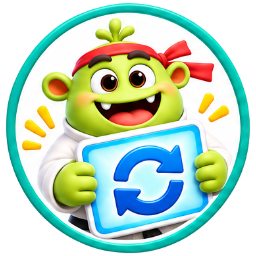
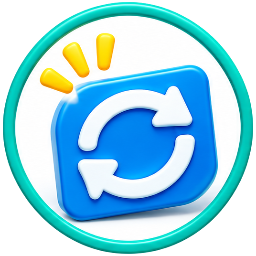
計算挑戰：四年級跳題＋道具圖示整組重畫（不同輪廓、框色）

diff --git a/calc/calc.js b/calc/calc.js
@@ -1,6 +1,7 @@
 /* ============================================================
    🧮 樹洞「計算挑戰」（三、四年級，2026-11-03 SUNNY 的點子）
    每天 5 題，紙上算、網頁打答案；第一次按「完成」就對才算「連續答對」
+   2026-11-10 ⏭跳題（只開放四年級）：連續 10／30／60 題起每天可跳 1／2／3 題；最近答錯過的運算不能跳（規則由後台算）
    2026-11-07 道具：🔁重做卡（蓋 3 章送 1）、🛡免歸零卡（連續 20 題送 1）、💾存檔點（50/100/150）、⭐累積答對稱號（規則都由後台算）
    第一次錯：紅格子＋一句提示（進位照 SUNNY「記在手上」，不畫小小進位數字）；第二次錯：一步一步動畫教
    當天 5 題全對：獎勵動畫＋蓋一個浩克章；連續答對 200 題：計算王獎狀（請找 SUNNY 領取獎品，一人最多 2 張）
@@ -34,16 +35,44 @@ const RULES = [
   "🛡 <b>免歸零卡</b>：每連續答對 20 題送 1 張。答錯（或重做也錯）時自動用掉一張，連續題數保住。",
   "💾 <b>存檔點</b>：連續到 50、100、150 題會存檔。兩種卡都用完時答錯，只退回存檔點，不會回到 0。",
   "⭐ <b>累積答對</b>：答對的題數一直加、不會歸零；到 50、100、200 題升級稱號。兩種卡最多各存 3 張。",
+  ...(GRADE === 4 ? ["⏭ <b>跳題</b>：連續答對 10 題起，每天可以跳過 1 題；30 題起 2 題、60 題起 3 題。跳過的題目連續不加也不斷。<b>最近算錯過的那種題目不能跳</b>，要多練習喔！"] : []),
   "連續答對 <b>200 題</b> → 得到「計算王獎狀」，請找 SUNNY 領取獎品。",
   "拿到獎狀後，連續題數從 0 重新開始；<b>每個人最多領 2 次獎品</b>。",
   "哪一天沒做，連續題數不會變。",
   "要打自己的本名；換手機、換平板，紀錄都接得上。",
 ];
 const STAMPS = 12;   // 浩克章 stamp_1.png ~ stamp_12.png（阿居畫），照順序輪流蓋
-// 道具圖示（阿居畫，2026-11-07；原圖 img\_原圖_items_阿居.png，cut_items.cjs 切）：文字裡的 🔁🛡💾⭐ 一律換成圖
-const ICO = { "🔁": "redo", "🛡": "shield", "💾": "save", "⭐": "total" };
-const ico = s => String(s).replace(/🔁|🛡\uFE0F?|💾|⭐/g, m => `<img class="cii" src="${IMG}item_${ICO[m.replace(/\uFE0F/g, "")]}.png" alt="">`);
+// 道具圖示（阿居畫；2026-11-10 SUNNY 嫌沒辨識度→整組重畫成不同輪廓：img\_原圖_items2_阿居.png、_原圖_skip_阿居.png，cut_items.cjs 切）：文字裡的 🔁🛡💾⭐⏭ 一律換成圖
+const ICO = { "🔁": "redo", "🛡": "shield", "💾": "save", "⭐": "total", "⏭": "skip" };
+const ico = s => String(s).replace(/🔁|🛡\uFE0F?|💾|⭐|⏭?/g, m => `<img class="cii" src="${IMG}item_${ICO[m.replace(/\uFE0F/g, "")]}.png" alt="">`);
 
+// ⏭ 跳題（四年級）：能不能跳第 idx 題（後台會再檢查一次）
+const OPN = { add: "加法", sub: "減法", mul: "乘法", div: "除法" };
+const opOf = p => /÷/.test(p.text) ? "div" : /×/.test(p.text) ? "mul" : /－/.test(p.text) ? "sub" : "add";
+function skipInfo(idx) {
+  if (GRADE !== 4 || !S || !S.skipMax || !SET || idx > S.perDay || S.first.length !== idx - 1 || S.pend) return null;
+  const used = S.skipUsed || 0, left = S.skipMax - used;
+  if (left <= 0 || S.perDay - used - 1 < 2) return null;
+  const op = opOf(SET[idx - 1]);
+  return (S.weak || []).indexOf(op) >= 0 ? { weak: OPN[op] } : { left };
+}
+const weakHTML = w => `<div class="cweak">浩克發現你最近的<b>${w}</b>有算錯，${w}要多練習喔～這題不能跳。</div>`;
+async function doSkip(idx, btn) {
+  if (btn && !btn.dataset.arm) { btn.dataset.arm = "1"; btn.textContent = "確定跳過？再按一次"; return; }
+  if (btn) { btn.disabled = true; btn.textContent = "跳過中…"; }
+  let r;
+  try { r = await api(null, { mode: "calc", classId: CH.id, name: myName(), idx, skip: true }); } catch (e) { r = null; }
+  if (!r || !r.ok) {
+    if (r) S = Object.assign(S, r, { ok: true });
+    modal(ico(`<h3>⏭ 這題不能跳</h3>`) + `<p>${r && r.err === "skip_weak" ? "這種題目你最近有算錯，要多練習喔～" : r && r.err === "skip_pend" ? "先把重做卡的那一題重做完。" : r ? "今天能跳的題目用完了。" : "網路好像斷了，等一下再試。"}</p>`, "好", () => Q ? drawQ() : drawHome(false));
+    return;
+  }
+  S = Object.assign(S, r);
+  Q = Q || {}; Q.gotRedo = !!r.gotRedo; Q.pet = r.pet && r.pet.pts ? r.pet : null;
+  updateTile();
+  if (r.stamp) { drawHome(false); setTimeout(reward, 300); return; }
+  if (idx < S.perDay) startQ(idx + 1); else drawHome(false);
+}
 // 💣 拆彈特攻隊新上線提醒：三年級、11/22 前、還沒點過拆彈分頁 → 方塊和分頁閃亮亮（點過一次就不再閃）
 const BOMB_NEW_UNTIL = Date.parse("2026-11-22T23:59:59+08:00");
 const bombIsNew = () => GRADE === 3 && Date.now() < BOMB_NEW_UNTIL && !lsG("wh_bomb_seen");
@@ -123,7 +152,7 @@ async function drawHome(reload) {
   }
   if (TAB === "bomb") return drawBomb(reload || !B);   // 💣 拆彈特攻隊分頁（三年級）
   const doneN = S.first.length, left = S.perDay - doneN, pct = Math.min(100, Math.round(S.streak / S.goal * 100));
-  const dots = Array.from({ length: S.perDay }, (_, i) => `<i class="${i < doneN ? (S.first[i] ? "ok" : "no") : i === doneN ? "now" : ""}"></i>`).join("");
+  const dots = Array.from({ length: S.perDay }, (_, i) => `<i class="${i < doneN ? (S.first[i] === 2 ? "skip" : S.first[i] ? "ok" : "no") : i === doneN ? "now" : ""}"></i>`).join("");
   // 打綽號／去姓的名字也認得，但提醒孩子打本名（SUNNY 2026-11-06：記得提醒小孩）；一鍵改成本名
   const typed = String(myName() || "").replace(/姸/g, "妍").replace(/[^一-鿿A-Za-z]/g, "").toLowerCase(), realName = /^測試/.test(S.key) ? "" : S.key;
   const nameTip = realName && typed !== realName ? `<div class="cnametip">浩克認出你是 <b>${esc(realName)}</b> 😊 下次記得打<b>本名</b>喔！<button class="cbtn" id="cfixname">改成本名</button></div>` : "";
@@ -133,7 +162,8 @@ async function drawHome(reload) {
       <div class="ccheer">${esc(homeCheer())}</div></div>
     <div class="ctoday"><div class="ct">今天的 5 題 <span class="cdots">${dots}</span></div>
       ${S.pend && S.pend === doneN ? `<button class="cbtn big" id="credo">🔁 重做第 ${doneN} 題（已用重做卡）</button>` : ""}
-      ${left > 0 ? `<button class="cbtn big${S.pend && S.pend === doneN ? " gray" : ""}" id="cgo">${doneN ? `繼續第 ${doneN + 1} 題` : "開始今天的 5 題"}</button>` : S.pend && S.pend === doneN ? "" : `<div class="cdone">今天做完了！明天再來挑戰 💪</div>`}</div>
+      ${left > 0 ? `<button class="cbtn big${S.pend && S.pend === doneN ? " gray" : ""}" id="cgo">${doneN ? `繼續第 ${doneN + 1} 題` : "開始今天的 5 題"}</button>` : S.pend && S.pend === doneN ? "" : `<div class="cdone">今天做完了！明天再來挑戰 💪</div>`}
+      ${left > 0 && skipInfo(doneN + 1) ? (skipInfo(doneN + 1).weak ? weakHTML(skipInfo(doneN + 1).weak) : `<button class="cbtn big gray" id="cskip">${ico("⏭")} 跳過第 ${doneN + 1} 題（還能跳 ${skipInfo(doneN + 1).left} 題）</button>`) : ""}</div>
     ${itemsHTML()}
     <div class="ccard"><div class="ct">我的集章卡 <small>（5 題全對蓋一個章）</small></div><div class="cstamps">${stampsHTML()}</div></div>
     <div class="ccard"><div class="ct">計算王獎狀 <small>已拿到 ${S.certs.length}／${S.maxCert} 張</small></div>
@@ -142,11 +172,12 @@ async function drawHome(reload) {
   bindTabs();
   if (el("cgo")) el("cgo").onclick = () => startQ(doneN + 1);
   if (el("credo")) el("credo").onclick = () => startQ(doneN, true);
+  if (el("cskip")) el("cskip").onclick = () => doSkip(doneN + 1, el("cskip"));
   if (el("cfixname")) el("cfixname").onclick = () => { if (typeof setMyName === "function") setMyName(realName); else lsS("wh_name", realName); drawHome(true); };
   el("crule").onclick = showRules;
   el("cpad").onclick = showPad;
   w.querySelectorAll(".ccert").forEach(b => b.onclick = () => showCert(+b.dataset.n));
-  if (!lsG("wh_calc_rules2")) { lsS("wh_calc_rules2", "1"); showRules(); }   // 2026-11-07 新增道具規則 → 每個孩子再看一次
+  if (!lsG("wh_calc_rules2") || GRADE === 4 && !lsG("wh_calc_rules3")) { lsS("wh_calc_rules2", "1"); lsS("wh_calc_rules3", "1"); showRules(); }   // 2026-11-10 四年級新增跳題規則 → 再看一次   // 2026-11-07 新增道具規則 → 每個孩子再看一次
 }
 function itemsHTML() {
   if (S.redo === undefined) return "";   // 後台還沒更新
@@ -156,6 +187,7 @@ function itemsHTML() {
   return ico(`<div class="ccard citems"><div class="ct">我的道具 <small>（答錯時會自動使用，各最多 ${S.itemMax} 張）</small></div>
       <div class="cit"><span class="ci">🔁</span><b>重做卡 ×${S.redo}</b><small>${full(S.redo) ? "已經存滿了" : `再蓋 ${redoNext} 個全對章送一張`}</small></div>
       <div class="cit"><span class="ci">🛡</span><b>免歸零卡 ×${S.shield}</b><small>${full(S.shield) ? "已經存滿了" : `再連續答對 ${shieldNext} 題送一張`}</small></div>
+${GRADE === 4 && S.skipMax !== undefined ? `<div class="cit"><span class="ci">⏭</span><b>跳題 每天 ${S.skipMax} 題</b><small>${S.skipNext ? `再連續答對 ${S.skipNext - S.streak} 題 → 每天可跳 ${S.skipMax + 1} 題` : "最多了，計算很穩定！"}</small></div>` : ""}
       <div class="cit"><span class="ci">💾</span><b>存檔點 ${S.savePoint} 題</b><small>${S.savePoint ? "卡片用完時答錯，只退回這裡" : `連續到 ${S.saveEvery} 題就會存檔`}</small></div></div>
     <div class="ccard ctotal"><div class="ct">⭐ 累積答對 <b>${S.total}</b> 題${S.title ? ` <span class="ctitle">${esc(S.title)}</span>` : ""}</div><div class="csmall">${nt}（答對的題數不會歸零）</div>${petWeekHTML(S)}</div>`);
 }
@@ -210,7 +242,7 @@ function drawQ(note) {
   note = Q.note;
   room.classList.add("qmode");
   const { L, p, idx } = Q, w = el("cwrap");
-  const dots = Array.from({ length: S.perDay }, (_, i) => `<i class="${i < S.first.length ? (S.first[i] ? "ok" : "no") : i === idx - 1 ? "now" : ""}"></i>`).join("");
+  const dots = Array.from({ length: S.perDay }, (_, i) => `<i class="${i < S.first.length ? (S.first[i] === 2 ? "skip" : S.first[i] ? "ok" : "no") : i === idx - 1 ? "now" : ""}"></i>`).join("");
   let g = `<div class="cgrid ${L.kind === "d" ? "div" : ""}" id="cgrid" style="grid-template-columns:repeat(${L.cols},var(--cs))">`;
   L.rows.forEach((row, r) => row.forEach((_, c) => {
     const given = C.isGiven(L, r), ch = Q.kid[r][c], k = r + "," + c;
@@ -228,7 +260,7 @@ function drawQ(note) {
       k === "del" ? `<button type="button" class="ck fn era" data-k="del">橡皮擦</button>` : k === "ok" ? `<button type="button" class="ck okk" data-k="ok">完成</button>`
       : `<button type="button" class="ck${k === "0" ? " zero" : ""}${k === "←" || k === "→" ? (ansMode && L.kind !== "d" ? " fn hid" : " fn") : ""}" data-k="${k}">${ansMode && L.kind === "d" && k === "←" ? "← 商" : ansMode && L.kind === "d" && k === "→" ? "餘數 →" : k}</button>`).join("")}</div>`;
   w.innerHTML = `<div class="cqs${Q.done ? " qdone" : ""}">
-    <div class="cqhead"><div class="cqtop"><span>第 ${idx}／${S.perDay} 題</span><span class="cdots">${dots}</span><span class="cs">連續 <b>${S.streak}</b></span></div>
+    <div class="cqhead"><div class="cqtop"><span>第 ${idx}／${S.perDay} 題</span><span class="cdots">${dots}</span><span class="cs">連續 <b>${S.streak}</b></span>${!Q.done && !Q.attempt && !Q.redo && skipInfo(idx) && !skipInfo(idx).weak ? `<button type="button" class="cskipq" id="cskipq">${ico("⏭")} 跳過</button>` : ""}</div>
       <div class="cq">${esc(p.text.replace(/－/g, "−").replace(/＋/g, "+"))} ＝ ？</div></div>
     <div class="cmain"><div class="cgarea" id="cgarea">${Q.askSunny ? askHTML() : ansMode ? ansHTML() : `<div class="cgridbox">${g}</div>`}</div>
       <div class="cnote ${note && note.cls || "tip"}" id="cnote">${note ? ico(note.html) : esc(tip)}</div></div>
@@ -238,6 +270,7 @@ function drawQ(note) {
   w.querySelectorAll(".ck").forEach(b => b.onclick = () => b.dataset.k === "ok" ? submit() : key(b.dataset.k));
   w.querySelectorAll(".cscreen[data-f]").forEach(s => s.onclick = () => { if (Q.done || Q.L.kind !== "d") return; Q.field = s.dataset.f; drawQ(); });   // 除法：點「商」或「餘數」的框切換
   if (el("cnext")) el("cnext").onclick = nextQ;
+  if (el("cskipq")) el("cskipq").onclick = () => doSkip(idx, el("cskipq"));
   if (el("tnext")) el("tnext").onclick = () => Q.teachUI.go(1);
   if (el("tprev")) el("tprev").onclick = () => Q.teachUI.go(-1);
 }
@@ -372,6 +405,7 @@ async function submitAns() {
     S = Object.assign(S, r);
     const ok = r.graded ? r.graded.ok : chk.ok;
     if (ok) return right(r);
+    if (GRADE === 4) { const op = opOf(Q.p); S.weak = (S.weak || []).filter(x => x !== op).concat(op); }   // 算錯的運算：之後不能跳
     Q.redo = r.item === "redo";
     const after = missText(r);
     if (chk.field) {   // 只錯一位數（或除法只錯餘數）→ 指出來
@@ -457,7 +491,7 @@ function teach() {
 function reward() {
   const m = document.createElement("div"); m.className = "creward";
   const n = S.stamps.length, st = ((n - 1) % STAMPS) + 1;
-  m.innerHTML = `<div class="rw"><img class="rf" src="${IMG}reward_1.png" alt="" onerror="this.style.display='none'"><div class="rt">今天 5 題全對！</div>
+  m.innerHTML = `<div class="rw"><img class="rf" src="${IMG}reward_1.png" alt="" onerror="this.style.display='none'"><div class="rt">${S.first.indexOf(2) >= 0 ? "今天做的題目全對！" : "今天 5 題全對！"}</div>
     <div class="rstamp"><img src="${IMG}stamp_${st}.png" alt="" onerror="this.style.display='none'"></div><div class="rs">${esc(pick(CHEER.stamp))}</div>${Q && Q.gotRedo ? ico('<div class="rs">🔁 蓋滿 ' + S.redoEvery + ' 個章，送你一張重做卡！</div>') : ""}${Q && Q.pet ? `<div class="rs rpet">${petLine(Q.pet)}</div>${petCard()}` : ""}<small>點一下關掉</small></div>`;
   room.appendChild(m);
   // 4 格只播一次（約 1.8 秒）停在蓋章那一格；3.5 秒後自己關，也可以點一下關掉

diff --git a/whisper.html b/whisper.html
@@ -668,7 +668,7 @@
   .vsgo{background:#E9763A;color:#fff;box-shadow:0 3px 0 #B2501E;}
   .vsok{background:#F3E2C4;color:#6B3A12;}
 </style>
-<link rel="stylesheet" href="calc/calc.css?v=1794146228217">
+<link rel="stylesheet" href="calc/calc.css?v=1794325140345">
 <link rel="stylesheet" href="challenge/challenge.css?v=1794312436499">
 </head>
 <body>
@@ -1692,8 +1692,8 @@ $("send").onclick=async()=>{
 })();
 </script>
 <!-- 🧮 計算挑戰（三、四年級；程式在 calc/，由 程式碼\計算挑戰\build.cjs 產生） -->
-<script src="calc/calc_core.js?v=1794146228217"></script>
-<script src="calc/cheer.js?v=1794146228217"></script>
-<script src="calc/calc.js?v=1794146228217"></script>
+<script src="calc/calc_core.js?v=1794325140345"></script>
+<script src="calc/cheer.js?v=1794325140345"></script>
+<script src="calc/calc.js?v=1794325140345"></script>
 </body>
 </html>

diff --git a/calc/calc.css b/calc/calc.css
@@ -310,3 +310,9 @@
 .cpetcard iframe{display:block;width:100%;height:104px;border:0;background:transparent;}
 .rpet{font-size:16px !important;}
 .bres .bpet{margin:4px 0 2px;font-size:16px;font-weight:900;color:#B4471A;}
+/* ⏭ 跳題（四年級，2026-11-10） */
+.cdots i.skip{background:#B8C4D0;}
+.cweak{margin-top:10px;padding:8px 12px;border-radius:12px;background:#FFF4D6;color:#7A5200;font-size:15px;font-weight:700;}
+.cskipq{border:none;border-radius:999px;padding:4px 10px;background:#E7EEF5;color:#4A6280;font:900 14px var(--font);cursor:pointer;touch-action:manipulation;}
+.cskipq:disabled{opacity:.6;}
+#cskip{font-size:16px;min-height:46px;white-space:nowrap;padding:8px 10px;}
